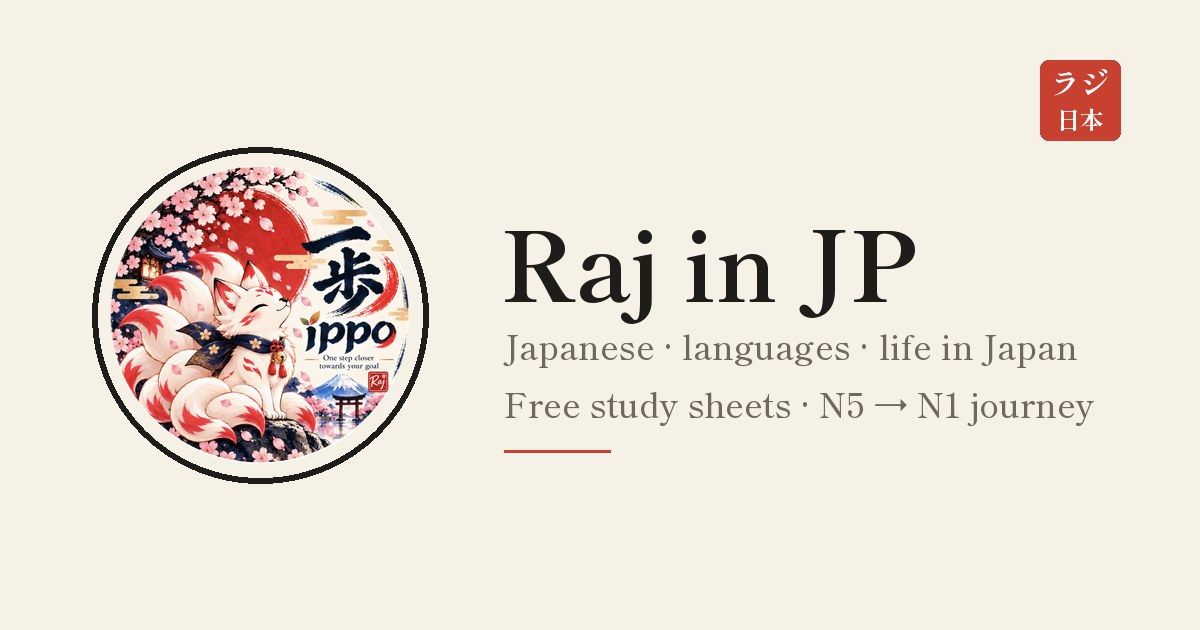
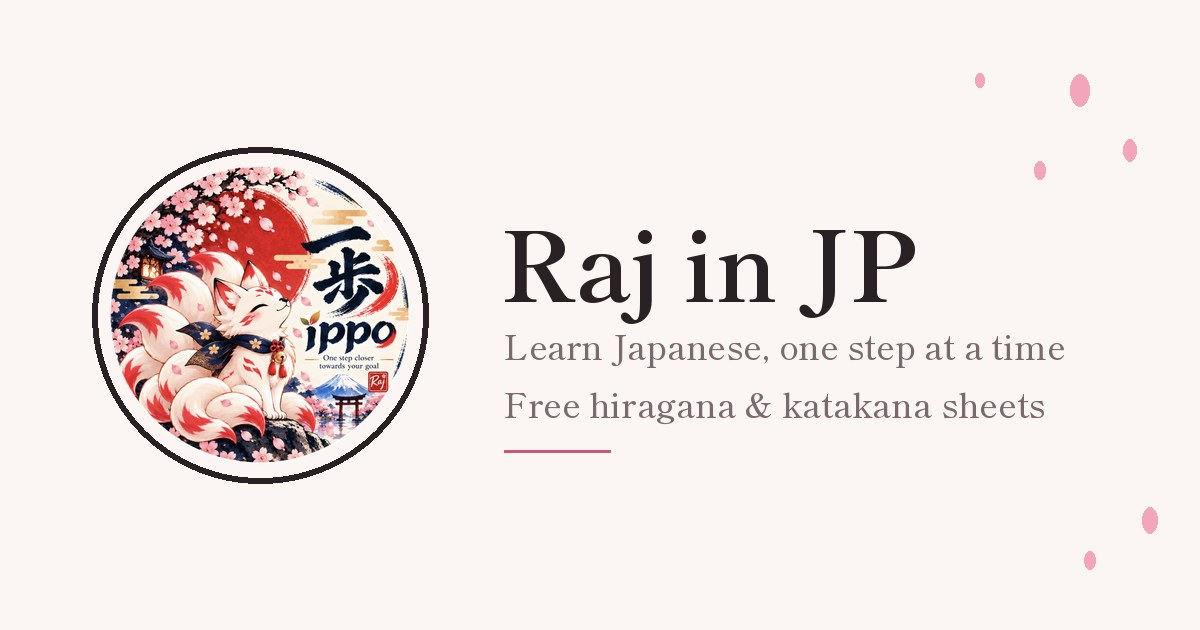
Remove N5-N1 and living-in-Japan wording; refresh share image
Claude-Session: https://claude.ai/code/session_01EaoD2wvxu4LumZTEG2MiNf

diff --git a/index.html b/index.html
@@ -4,11 +4,11 @@
 <meta charset="utf-8" />
 <meta name="viewport" content="width=device-width, initial-scale=1, viewport-fit=cover" />
 <title>Raj in JP · Learn Japanese, one step at a time</title>
-<meta name="description" content="Raj in JP: self-taught Japanese from N5 to N1 (180/180 in N3). Kanji breakdowns, JLPT tips, free hiragana and katakana charts and writing practice sheets." />
+<meta name="description" content="Raj in JP: self-taught Japanese learner (180/180 in N3). Kanji breakdowns, JLPT tips, free hiragana and katakana charts and writing practice sheets." />
 <meta property="og:type" content="website" />
 <meta property="og:url" content="https://raj-in-jp.github.io/" />
 <meta property="og:title" content="Raj in JP · Learn Japanese, one step at a time" />
-<meta property="og:description" content="Kanji breakdowns, JLPT tips and free study sheets from a self-taught N1 learner." />
+<meta property="og:description" content="Kanji breakdowns, JLPT tips and free study sheets from a self-taught Japanese learner." />
 <meta property="og:image" content="https://raj-in-jp.github.io/assets/og.jpg" />
 <meta name="twitter:card" content="summary_large_image" />
 <meta name="theme-color" content="#f6f1e7" media="(prefers-color-scheme: light)" />
@@ -46,14 +46,14 @@
     <div class="hero-text">
       <p class="kicker"><span class="line"></span>日本語 · 一歩ずつ</p>
       <h1>Learn Japanese,<br /><span class="shu">one step</span> at a time.</h1>
-      <p class="lead">Hi, I'm Raj 🇮🇳 → 🇯🇵. I taught myself Japanese from N5 to N1 and scored <b>180/180 in N3</b>. I share kanji breakdowns, JLPT tips and life in Japan.</p>
+      <p class="lead">Hi, I'm Raj 🇮🇳 → 🇯🇵. I taught myself Japanese and scored <b>180/180 in N3</b>. I share kanji breakdowns, JLPT tips and everyday Japanese.</p>
       <div class="cta">
         <a class="btn primary" href="https://www.instagram.com/raj_in_jp" target="_blank" rel="noopener"><svg viewBox="0 0 24 24"><path d="M12 7a5 5 0 1 0 0 10 5 5 0 0 0 0-10Zm0 8.2a3.2 3.2 0 1 1 0-6.4 3.2 3.2 0 0 1 0 6.4ZM17.3 5.5a1.2 1.2 0 1 0 0 2.4 1.2 1.2 0 0 0 0-2.4ZM12 2.2c2.7 0 3 0 4 .1 2.7.1 4 1.4 4.1 4.1.1 1 .1 1.3.1 4s0 3-.1 4c-.1 2.7-1.4 4-4.1 4.1-1 .1-1.3.1-4 .1s-3 0-4-.1c-2.7-.1-4-1.4-4.1-4.1-.1-1-.1-1.3-.1-4s0-3 .1-4C4 3.7 5.3 2.4 8 2.3c1-.1 1.3-.1 4-.1ZM12 0C9.3 0 8.9 0 7.9.1 4.2.2 2.2 2.2 2.1 5.9 2 6.9 2 7.3 2 10v4c0 2.7 0 3.1.1 4.1.1 3.7 2.1 5.7 5.8 5.8 1 .1 1.4.1 4.1.1s3.1 0 4.1-.1c3.7-.1 5.7-2.1 5.8-5.8.1-1 .1-1.4.1-4.1v-4c0-2.7 0-3.1-.1-4.1C21.8 2.2 19.8.2 16.1.1 15.1 0 14.7 0 12 0Z"/></svg>Follow on Instagram</a>
         <a class="btn" href="#free">Free study sheets ↓</a>
       </div>
       <dl class="stats">
         <div><dt>9K+</dt><dd>followers</dd></div>
-        <div><dt>N5→N1</dt><dd>self-taught</dd></div>
+        <div><dt>Self-taught</dt><dd>Japanese</dd></div>
         <div><dt>180/180</dt><dd>JLPT N3</dd></div>
         <div><dt>10+</dt><dd>languages</dd></div>
       </dl>
@@ -110,13 +110,13 @@
     <div>
       <span class="label">私</span>
       <h2>About Raj</h2>
-      <p>I'm a mechanical engineer (R&amp;D × design) from India, living in Japan. I taught myself Japanese from N5 all the way to N1, and now I share what worked for me: kanji stories, JLPT grammar revision and everyday Japanese.</p>
+      <p>I'm a mechanical engineer (R&amp;D × design) from India. I taught myself Japanese, and now I share what worked for me: kanji stories, JLPT grammar revision and everyday Japanese.</p>
       <p>I speak Tamil, Telugu, Hindi and English, and I'm learning Korean, German, Indonesian and Tagalog.</p>
       <p class="motto">「言葉を楽しむ」<span>Enjoy languages.</span></p>
       <p class="collab">📥 For collaborations, DM me on <a href="https://www.instagram.com/raj_in_jp" target="_blank" rel="noopener">Instagram</a>.</p>
     </div>
     <ul class="facts">
-      <li><b>🇯🇵</b><span>Self-taught Japanese, N5 → N1</span></li>
+      <li><b>🇯🇵</b><span>Self-taught Japanese</span></li>
       <li><b>💯</b><span>180/180 in JLPT N3</span></li>
       <li><b>🌏</b><span>10+ languages</span></li>
       <li><b>🛠</b><span>Mechanical engineer × R&amp;D × design</span></li>
